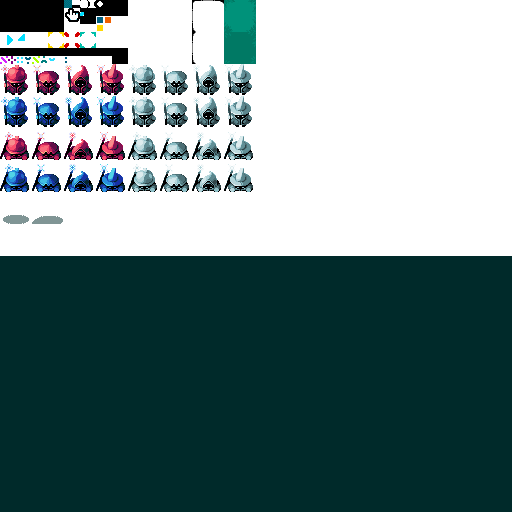
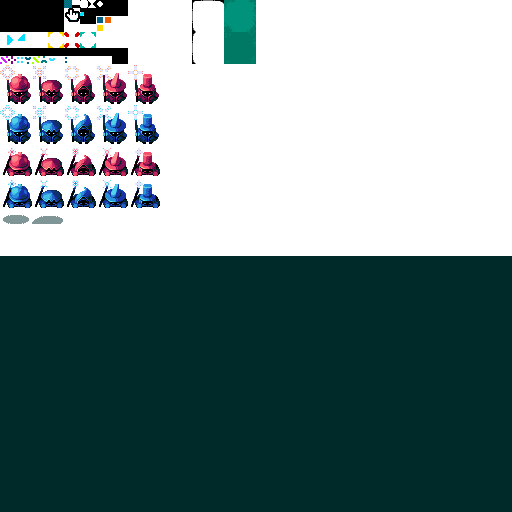
Add in new sprites

Changed region(s): [[0.0, 0.125, 0.5, 0.4062]]

diff --git a/src/draw.rs b/src/draw.rs
@@ -166,15 +166,15 @@ pub fn draw_mage(
     }) as f64;
 
     let sleeping_offset = if mage.is_alive() && game_started {
-        0.0
+        (0.0, 40.0)
     } else {
-        64.0
+        (80.0, 32.0)
     };
 
     context.save();
 
     if mage.is_alive() {
-        draw_sprite(context, atlas, 0.0, 192.0, 32.0, 32.0, -16.0, -20.0)?;
+        draw_sprite(context, atlas, 0.0, 208.0, 32.0, 16.0, -16.0, -4.0)?;
 
         if let Some(GameResult::Win(team)) = game_result {
             if team == mage.team {
@@ -190,7 +190,7 @@ pub fn draw_mage(
     } else {
         context.translate(0.0, 4.0)?;
 
-        draw_sprite(context, atlas, 32.0, 192.0, 32.0, 32.0, -16.0, -20.0)?;
+        draw_sprite(context, atlas, 32.0, 208.0, 32.0, 16.0, -16.0, -4.0)?;
     }
 
     let sprite_x = match mage.sort {
@@ -198,7 +198,7 @@ pub fn draw_mage(
         shared::MageSort::Spike => 32.0,
         shared::MageSort::Knight => 64.0,
         shared::MageSort::Cross => 96.0,
-        shared::MageSort::Plus => 0.0,
+        shared::MageSort::Plus => 128.0,
     };
 
     match mage.team {
@@ -206,26 +206,26 @@ pub fn draw_mage(
             .draw_image_with_html_canvas_element_and_sw_and_sh_and_dx_and_dy_and_dw_and_dh(
                 atlas,
                 sprite_x,
-                64.0 + sleeping_offset,
+                64.0 + sleeping_offset.0,
                 32.0,
+                sleeping_offset.1,
+                -19.0,
+                -28.0 + bounce + 40.0 - sleeping_offset.1,
                 32.0,
-                -16.0,
-                -20.0 + bounce,
-                32.0,
-                32.0,
+                sleeping_offset.1,
             )?,
         Team::Blue => {
             context.scale(-1.0, 1.0)?;
             context.draw_image_with_html_canvas_element_and_sw_and_sh_and_dx_and_dy_and_dw_and_dh(
                 atlas,
                 sprite_x,
-                96.0 + sleeping_offset,
+                64.0 + sleeping_offset.1 + sleeping_offset.0,
                 32.0,
+                sleeping_offset.1,
+                -19.0,
+                -28.0 + bounce + 40.0 - sleeping_offset.1,
                 32.0,
-                -16.0,
-                -20.0 + bounce,
-                32.0,
-                32.0,
+                sleeping_offset.1,
             )?
         }
     }
@@ -577,15 +577,15 @@ pub fn draw_label(
     if *trim == LabelTrim::Glorious {
         context.fill_rect(
             -size.0 as f64 / 2.0,
-            -size.1 as f64 / 2.0 + 2.0,
-            2.0,
-            size.1 as f64 - 4.0,
+            -size.1 as f64 / 2.0 + 3.0,
+            3.0,
+            size.1 as f64 - 6.0,
         );
         context.fill_rect(
-            size.0 as f64 / 2.0 - 2.0,
-            -size.1 as f64 / 2.0 + 2.0,
-            2.0,
-            size.1 as f64 - 4.0,
+            size.0 as f64 / 2.0 - 3.0,
+            -size.1 as f64 / 2.0 + 3.0,
+            3.0,
+            size.1 as f64 - 6.0,
         );
     }
 

diff --git a/src/app/state/menu_teleport.rs b/src/app/state/menu_teleport.rs
@@ -160,8 +160,8 @@ impl State for MenuTeleport {
 impl Default for MenuTeleport {
     fn default() -> MenuTeleport {
         let button_teleport = ButtonElement::new(
-            (16, 188),
-            (80, 24),
+            (8, 188),
+            (96, 24),
             BUTTON_TELEPORT,
             LabelTrim::Glorious,
             LabelTheme::Action,

diff --git a/src/app/state/menu_main.rs b/src/app/state/menu_main.rs
@@ -221,8 +221,8 @@ impl Default for MenuState {
         );
 
         let button_battle = ButtonElement::new(
-            (16, 188),
-            (80, 24),
+            (8, 188),
+            (96, 24),
             BUTTON_BATTLE,
             LabelTrim::Glorious,
             LabelTheme::Action,

diff --git a/shared/src/game/game.rs b/shared/src/game/game.rs
@@ -386,7 +386,7 @@ impl Game {
                 };
 
                 //         α := max(α, score)
-                if score.1 >= alpha {
+                if score.1 > alpha {
                     alpha = score.1;
                     best_turn = *turn;
                 }
